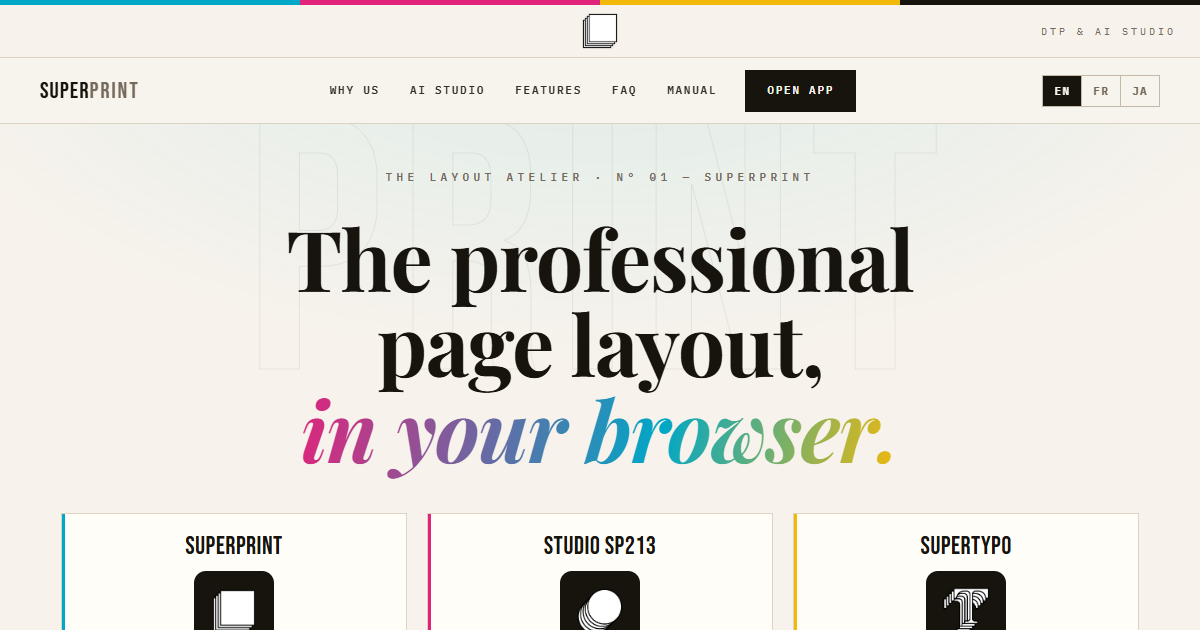
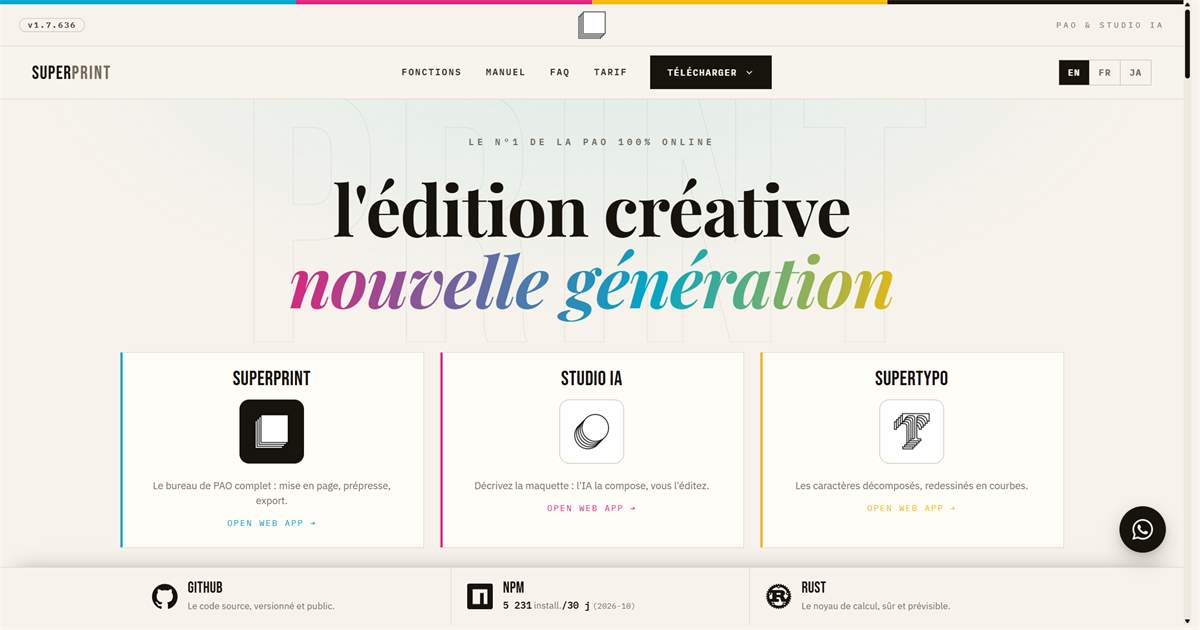
image de partage : l'ancien PNG porte désormais le nouveau visuel
Demande utilisateur : « le fichier og-superprint-1200x630.png est toujours
présent... remets bien à jour partout avec notre dernier shoot ».

L'ancien PNG n'était plus référencé, mais un partage déjà publié pointe encore
dessus : le laisser en place, c'était laisser l'ancien slogan circuler. Il est
donc ÉCRASÉ par le nouveau shoot, dans les quatre arbres vivants et dans les
sorties figées de _dev. La v4.jpg est rafraîchie dans le même geste : les deux
fichiers sortent du même master, capturé en 2250 x 1181 et réduit à 1200 x 630.

Vérifié par signature de pixels : le PNG et le JPEG servis portent le même
visuel (écarts de compression, rien d'autre).

FAQ et Tarifs basculent aussi sur l'URL v4 : elles pointaient sur le PNG, donc
leurs partages restaient bloqués sur l'image en cache. Elles n'ont maintenant
qu'une seule URL à rafraîchir, comme l'accueil.
`og:image:type` manquait sur Tarifs — ajouté, les trois pages sont alignées.

Vérifié : index, faq et price annoncent tous og-superprint-1200x630-v4.jpg,
image/jpeg, summary_large_image, dans les quatre arbres ; dist Astro à jour ;
`astro check` 0 erreur ; miroirs byte-identiques.

diff --git a/sp213-local/public/superprint/price.html b/sp213-local/public/superprint/price.html
@@ -21,9 +21,10 @@
 <meta property="og:url" content="https://superprint.cc/price.html">
 <meta property="og:title" content="Tarif — SuperPrint | Pricing">
 <meta property="og:description" content="13 € une fois, 39 € par an, ou un don libre : trois façons de soutenir SuperPrint via PayPal. Le logiciel reste gratuit.">
-<meta property="og:image" content="https://superprint.cc/img/og-superprint-1200x630.png">
+<meta property="og:image" content="https://superprint.cc/img/og-superprint-1200x630-v4.jpg">
 <meta property="og:image:width" content="1200">
 <meta property="og:image:height" content="630">
+    <meta property="og:image:type" content="image/jpeg">
 <meta property="og:site_name" content="Zigmoon">
 <meta property="og:locale" content="fr_FR">
 <meta property="og:locale:alternate" content="en_US">
@@ -31,7 +32,7 @@
 <meta name="twitter:card" content="summary_large_image">
 <meta name="twitter:title" content="Tarif — SuperPrint | Pricing">
 <meta name="twitter:description" content="13 € une fois, 39 € par an ou un don libre — soutien facultatif via PayPal.">
-<meta name="twitter:image" content="https://superprint.cc/img/og-superprint-1200x630.png">
+<meta name="twitter:image" content="https://superprint.cc/img/og-superprint-1200x630-v4.jpg">
 
 <link rel="icon" type="image/png" href="favicon.png">
 <link rel="icon" type="image/png" sizes="16x16" href="favicon.png">
@@ -2288,7 +2289,7 @@ section.help-apps, section.help-more, section.help-bug { padding: clamp(34px,4vw
       "description": "Soutenir SuperPrint : 13 € une fois, 39 € par an ou un don libre, via PayPal. Le logiciel reste gratuit.",
       "inLanguage": "en",
       "isPartOf": { "@type": "WebSite", "url": "https://superprint.cc/", "name": "SuperPrint" },
-      "primaryImageOfPage": "https://superprint.cc/img/og-superprint-1200x630.png"
+      "primaryImageOfPage": "https://superprint.cc/img/og-superprint-1200x630-v4.jpg"
     },
     {
       "@type": "BreadcrumbList",

diff --git a/superprint/price.html b/superprint/price.html
@@ -21,9 +21,10 @@
 <meta property="og:url" content="https://superprint.cc/price.html">
 <meta property="og:title" content="Tarif — SuperPrint | Pricing">
 <meta property="og:description" content="13 € une fois, 39 € par an, ou un don libre : trois façons de soutenir SuperPrint via PayPal. Le logiciel reste gratuit.">
-<meta property="og:image" content="https://superprint.cc/img/og-superprint-1200x630.png">
+<meta property="og:image" content="https://superprint.cc/img/og-superprint-1200x630-v4.jpg">
 <meta property="og:image:width" content="1200">
 <meta property="og:image:height" content="630">
+    <meta property="og:image:type" content="image/jpeg">
 <meta property="og:site_name" content="Zigmoon">
 <meta property="og:locale" content="fr_FR">
 <meta property="og:locale:alternate" content="en_US">
@@ -31,7 +32,7 @@
 <meta name="twitter:card" content="summary_large_image">
 <meta name="twitter:title" content="Tarif — SuperPrint | Pricing">
 <meta name="twitter:description" content="13 € une fois, 39 € par an ou un don libre — soutien facultatif via PayPal.">
-<meta name="twitter:image" content="https://superprint.cc/img/og-superprint-1200x630.png">
+<meta name="twitter:image" content="https://superprint.cc/img/og-superprint-1200x630-v4.jpg">
 
 <link rel="icon" type="image/png" href="favicon.png">
 <link rel="icon" type="image/png" sizes="16x16" href="favicon.png">
@@ -2288,7 +2289,7 @@ section.help-apps, section.help-more, section.help-bug { padding: clamp(34px,4vw
       "description": "Soutenir SuperPrint : 13 € une fois, 39 € par an ou un don libre, via PayPal. Le logiciel reste gratuit.",
       "inLanguage": "en",
       "isPartOf": { "@type": "WebSite", "url": "https://superprint.cc/", "name": "SuperPrint" },
-      "primaryImageOfPage": "https://superprint.cc/img/og-superprint-1200x630.png"
+      "primaryImageOfPage": "https://superprint.cc/img/og-superprint-1200x630-v4.jpg"
     },
     {
       "@type": "BreadcrumbList",

diff --git a/superprint_ASTRO/_legacy/price.html b/superprint_ASTRO/_legacy/price.html
@@ -21,9 +21,10 @@
 <meta property="og:url" content="https://superprint.cc/price.html">
 <meta property="og:title" content="Tarif — SuperPrint | Pricing">
 <meta property="og:description" content="13 € une fois, 39 € par an, ou un don libre : trois façons de soutenir SuperPrint via PayPal. Le logiciel reste gratuit.">
-<meta property="og:image" content="https://superprint.cc/img/og-superprint-1200x630.png">
+<meta property="og:image" content="https://superprint.cc/img/og-superprint-1200x630-v4.jpg">
 <meta property="og:image:width" content="1200">
 <meta property="og:image:height" content="630">
+    <meta property="og:image:type" content="image/jpeg">
 <meta property="og:site_name" content="Zigmoon">
 <meta property="og:locale" content="fr_FR">
 <meta property="og:locale:alternate" content="en_US">
@@ -31,7 +32,7 @@
 <meta name="twitter:card" content="summary_large_image">
 <meta name="twitter:title" content="Tarif — SuperPrint | Pricing">
 <meta name="twitter:description" content="13 € une fois, 39 € par an ou un don libre — soutien facultatif via PayPal.">
-<meta name="twitter:image" content="https://superprint.cc/img/og-superprint-1200x630.png">
+<meta name="twitter:image" content="https://superprint.cc/img/og-superprint-1200x630-v4.jpg">
 
 <link rel="icon" type="image/png" href="favicon.png">
 <link rel="icon" type="image/png" sizes="16x16" href="favicon.png">
@@ -1988,7 +1989,7 @@ section.help-apps, section.help-more, section.help-bug { padding: clamp(34px,4vw
       "description": "Soutenir SuperPrint : 13 € une fois, 39 € par an ou un don libre, via PayPal. Le logiciel reste gratuit.",
       "inLanguage": "en",
       "isPartOf": { "@type": "WebSite", "url": "https://superprint.cc/", "name": "SuperPrint" },
-      "primaryImageOfPage": "https://superprint.cc/img/og-superprint-1200x630.png"
+      "primaryImageOfPage": "https://superprint.cc/img/og-superprint-1200x630-v4.jpg"
     },
     {
       "@type": "BreadcrumbList",

diff --git a/sp213-local/public/superprint/faq.html b/sp213-local/public/superprint/faq.html
@@ -46,10 +46,10 @@
 <meta property="og:url" content="https://superprint.cc/faq.html">
 <meta property="og:title" content="SuperPrint — Online DTP Software + SP213 AI Studio">
 <meta property="og:description" content="Professional DTP in your browser + AI layout studio. Pantone spot inks as separate named PDF channels, Word &amp; IDML import, text wrap, print-ready CMYK export. No install, no subscription.">
-<meta property="og:image" content="https://superprint.cc/img/og-superprint-1200x630.png">
+<meta property="og:image" content="https://superprint.cc/img/og-superprint-1200x630-v4.jpg">
 <meta property="og:image:width" content="1200">
 <meta property="og:image:height" content="630">
-<meta property="og:image:type" content="image/png">
+<meta property="og:image:type" content="image/jpeg">
 <meta property="og:image:alt" content="SuperPrint — browser DTP software + SP213 AI studio">
 <meta property="og:site_name" content="Zigmoon">
 <meta property="og:locale" content="fr_FR">
@@ -60,7 +60,7 @@
 <meta name="twitter:card" content="summary_large_image">
 <meta name="twitter:title" content="SuperPrint — Online DTP Software + SP213 AI Studio">
 <meta name="twitter:description" content="Browser DTP + AI layout studio. Pantone spot inks separated into named PDF channels, Word &amp; IDML import, text wrap, print-ready CMYK export. No install.">
-<meta name="twitter:image" content="https://superprint.cc/img/og-superprint-1200x630.png">
+<meta name="twitter:image" content="https://superprint.cc/img/og-superprint-1200x630-v4.jpg">
 
 <!-- JSON-LD — SoftwareApplication + FAQPage + BreadcrumbList -->
 <script type="application/ld+json">

diff --git a/superprint/faq.html b/superprint/faq.html
@@ -46,10 +46,10 @@
 <meta property="og:url" content="https://superprint.cc/faq.html">
 <meta property="og:title" content="SuperPrint — Online DTP Software + SP213 AI Studio">
 <meta property="og:description" content="Professional DTP in your browser + AI layout studio. Pantone spot inks as separate named PDF channels, Word &amp; IDML import, text wrap, print-ready CMYK export. No install, no subscription.">
-<meta property="og:image" content="https://superprint.cc/img/og-superprint-1200x630.png">
+<meta property="og:image" content="https://superprint.cc/img/og-superprint-1200x630-v4.jpg">
 <meta property="og:image:width" content="1200">
 <meta property="og:image:height" content="630">
-<meta property="og:image:type" content="image/png">
+<meta property="og:image:type" content="image/jpeg">
 <meta property="og:image:alt" content="SuperPrint — browser DTP software + SP213 AI studio">
 <meta property="og:site_name" content="Zigmoon">
 <meta property="og:locale" content="fr_FR">
@@ -60,7 +60,7 @@
 <meta name="twitter:card" content="summary_large_image">
 <meta name="twitter:title" content="SuperPrint — Online DTP Software + SP213 AI Studio">
 <meta name="twitter:description" content="Browser DTP + AI layout studio. Pantone spot inks separated into named PDF channels, Word &amp; IDML import, text wrap, print-ready CMYK export. No install.">
-<meta name="twitter:image" content="https://superprint.cc/img/og-superprint-1200x630.png">
+<meta name="twitter:image" content="https://superprint.cc/img/og-superprint-1200x630-v4.jpg">
 
 <!-- JSON-LD — SoftwareApplication + FAQPage + BreadcrumbList -->
 <script type="application/ld+json">

diff --git a/superprint_ASTRO/_legacy/faq.html b/superprint_ASTRO/_legacy/faq.html
@@ -46,10 +46,10 @@
 <meta property="og:url" content="https://superprint.cc/faq.html">
 <meta property="og:title" content="SuperPrint — Online DTP Software + SP213 AI Studio">
 <meta property="og:description" content="Professional DTP in your browser + AI layout studio. Pantone spot inks as separate named PDF channels, Word &amp; IDML import, text wrap, print-ready CMYK export. No install, no subscription.">
-<meta property="og:image" content="https://superprint.cc/img/og-superprint-1200x630.png">
+<meta property="og:image" content="https://superprint.cc/img/og-superprint-1200x630-v4.jpg">
 <meta property="og:image:width" content="1200">
 <meta property="og:image:height" content="630">
-<meta property="og:image:type" content="image/png">
+<meta property="og:image:type" content="image/jpeg">
 <meta property="og:image:alt" content="SuperPrint — browser DTP software + SP213 AI studio">
 <meta property="og:site_name" content="Zigmoon">
 <meta property="og:locale" content="fr_FR">
@@ -60,7 +60,7 @@
 <meta name="twitter:card" content="summary_large_image">
 <meta name="twitter:title" content="SuperPrint — Online DTP Software + SP213 AI Studio">
 <meta name="twitter:description" content="Browser DTP + AI layout studio. Pantone spot inks separated into named PDF channels, Word &amp; IDML import, text wrap, print-ready CMYK export. No install.">
-<meta name="twitter:image" content="https://superprint.cc/img/og-superprint-1200x630.png">
+<meta name="twitter:image" content="https://superprint.cc/img/og-superprint-1200x630-v4.jpg">
 
 <!-- JSON-LD — SoftwareApplication + FAQPage + BreadcrumbList -->
 <script type="application/ld+json">
